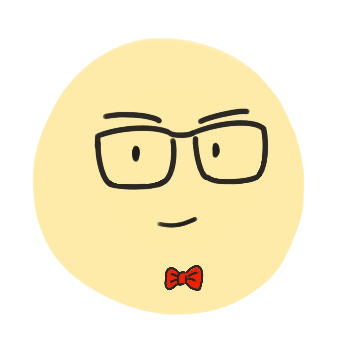
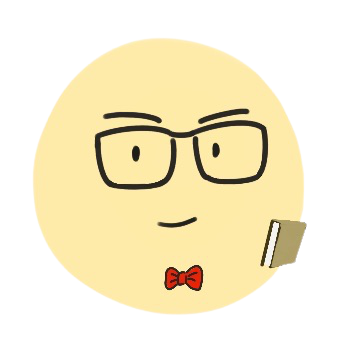
[FE] UPDATE : 캐릭터 변경 및 디테일 캐릭터추가
Former-commit-id: 8997cb32e79762b86f9ce831cea1fca4d6cd81ba

Changed region(s): [[0.7493, 0.634, 0.8934, 0.7781], [0.4899, 0.7781, 0.5187, 0.8357], [0.5476, 0.7781, 0.5764, 0.8069]]

diff --git a/frontend/src/components/detail/DetailSide.vue b/frontend/src/components/detail/DetailSide.vue
@@ -7,8 +7,15 @@
             <div>
                 <!-- <q-icon v-if="zzim" @click="zzimOff" class="bookmark" style="font-size: 3.7em; color: red;" name="bookmark"/>
                 <q-icon v-if="!zzim" @click="zzimOn" class="bookmark" style="font-size: 3.7em; color: black;" name="bookmark_border"/> -->
-                <div class="placement">
+                <div class="placement" style="display:flex;">
                   <div @click="bookmark" id="heart"></div>
+                  <q-img v-if="-29726<=score && score <=-1261" src='~assets/character/purple.png' class="book_character"/>
+                  <q-img v-if="-1261<score && score <=-318" src='~assets/character/navy.png' class="book_character"/>
+                  <q-img v-if="-318<=score && score <=0" src='~assets/character/blue.png' class="book_character"/>
+                  <q-img v-if="0<score && score <=361" src='~assets/character/green.png' class="book_character"/>
+                  <q-img v-if="361<score && score <=845" src='~assets/character/orange.png' class="book_character"/>
+                  <q-img v-if="845<score && score <=1576" src='~assets/character/yellow.png' class="book_character"/>
+                  <q-img v-if="1576<score && score <=24386" src='~assets/character/red.png' class="book_character"/>
                 </div>
             </div>
             <div style="position:relative; top:-40px;">
@@ -27,7 +34,7 @@
 </template>
 
 <script>
-import { computed, onMounted } from 'vue'
+import { computed } from 'vue'
 import { useStore } from 'vuex'
 
 export default {
@@ -38,6 +45,8 @@ export default {
     const zzim = computed(() => store.getters['module/getZzim'])
 
     const userId = localStorage.getItem('userId')
+    const score = selectBook.value.emotion_score
+
     store.dispatch('module/requestzzim', userId)
       .then(function (result) {
           for(let i = 0; i < result.data.data.length; i++) {
@@ -89,6 +98,7 @@ export default {
     return {
       selectBook,
       zzim,
+      score,
       bookmark
     }
   }
@@ -96,6 +106,12 @@ export default {
 </script>
 
 <style lang="scss">
+.book_character{
+  width:60px;
+  height: 60px;
+  margin-top:5px;
+  margin-left:140px;
+}
 .detail_side{
   width:350px;
   height:650px;

diff --git a/frontend/src/store/module/actions.js b/frontend/src/store/module/actions.js
@@ -1,12 +1,12 @@
 import $axios from 'axios'
 
 // [서버] 배포 url
-const baseUrl = 'https://j5b203.p.ssafy.io/api'
-const basePythonUrl = 'https://j5b203.p.ssafy.io/data'
+// const baseUrl = 'https://j5b203.p.ssafy.io/api'
+// const basePythonUrl = 'https://j5b203.p.ssafy.io/data'
 
 // [로컬] 기본 url
-// const baseUrl = 'http://localhost:7777/api'
-// const basePythonUrl = 'http://localhost:5000/data'
+const baseUrl = 'http://localhost:7777/api'
+const basePythonUrl = 'http://localhost:5000/data'
 
 // 회원가입 axios
 export function signup ({}, info) {
